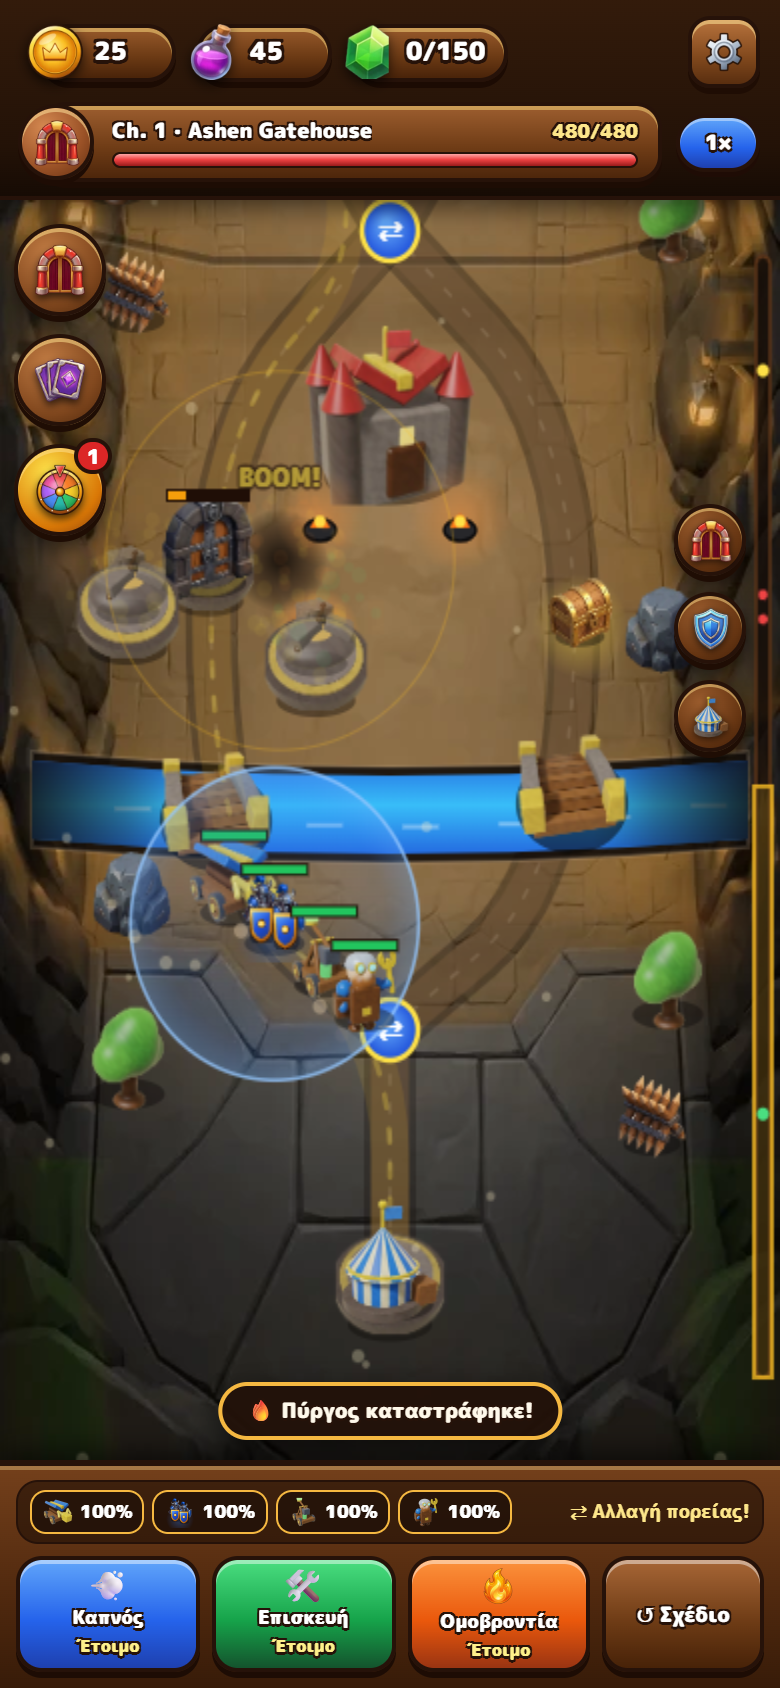
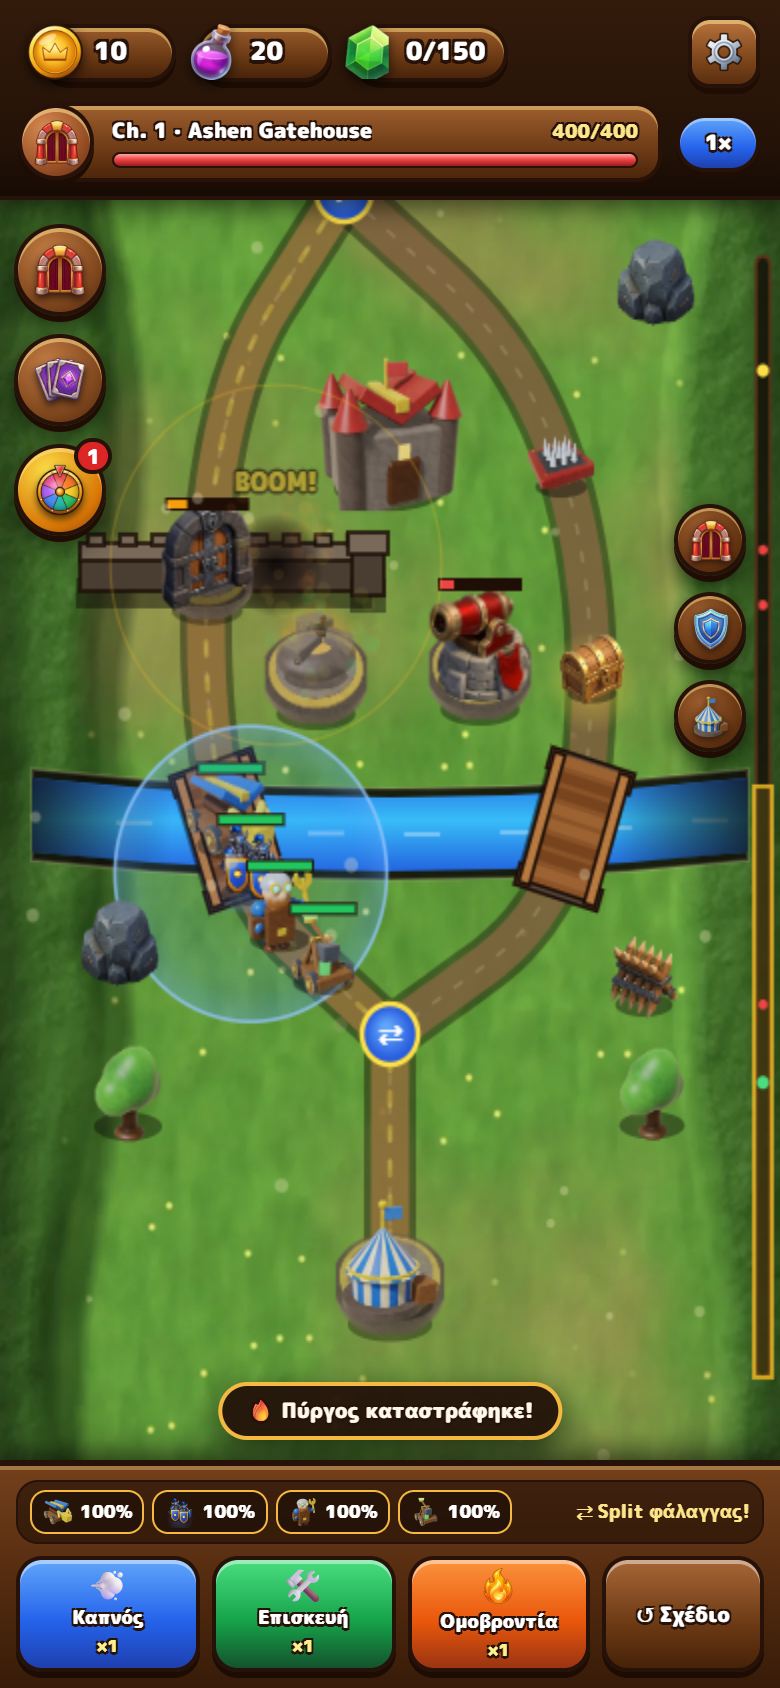
Release v2.0.0: Overhaul Edition version.json, README & screenshots

diff --git a/README.md b/README.md
@@ -22,12 +22,12 @@
     <img src="https://img.shields.io/badge/More_Apps-jemangr.app-f59e0b?style=for-the-badge" alt="jemangr.app" />
   </a>
   <a href="https://github.com/jemangr/reverse-siege-releases/releases">
-    <img src="https://img.shields.io/badge/Releases-v1.2.0-22c55e?style=for-the-badge" alt="GitHub Releases" />
+    <img src="https://img.shields.io/badge/Releases-v2.0.0-22c55e?style=for-the-badge" alt="GitHub Releases" />
   </a>
 </p>
 
 <p align="center">
-  <img src="https://img.shields.io/badge/Version-v1.2.0-brightgreen" alt="Version v1.2.0" />
+  <img src="https://img.shields.io/badge/Version-v2.0.0-brightgreen" alt="Version v2.0.0" />
   <img src="https://img.shields.io/badge/Package-app.jemangr.reversesiege-blue" alt="Package app.jemangr.reversesiege" />
   <img src="https://img.shields.io/badge/Platform-Android%208.0%2B-purple" alt="Android 8.0+" />
   <img src="https://img.shields.io/badge/Languages-EL%20%7C%20EN-gold" alt="Languages EL | EN" />
@@ -46,26 +46,26 @@ Always get the latest official Android APK build from this permanent link:
 
 ---
 
-## ✨ Key Highlights (`v1.2.0 — Sculpted Realms & 50 Chapters`)
+## ✨ Key Highlights (`v2.0.0 — Overhaul Edition`)
 
-- 🏰 **Hand-Painted 3D Sculpted Realms (`390×1100`):** Seamless vertical castle corridors featuring rocky cliff walls with glowing lanterns, **23 3D PBR sprites** (3D stone tower pedestals, guardhouses, arched planked drawbridges, oak & frosted pine trees, burning bronze war-pillars), and organic **curved spline cobblestone paths**.
-- 🌍 **50-Chapter Campaign across 5 Acts (150★):** Progress through **5 distinct realms** (*Ashen Borderlands, Ember Caldera, Verdant Catacombs, Frostfang Pass, Iron King's Domain*) with **5 unique castle layouts**, every 10th chapter as a Boss Citadel (`hpScale 1.00× → 4.09×`, scaled starting Gold `410g → 733g`, Lv. `1–10` Workshop Upgrades, and Act `1..5` campaign filter tabs).
-- 🎯 **Clean HUD & Tactical Clarity:** English chapter names shown consistently across locales, decluttered side medallion icons without overlapping labels, subtle active-threat range rings (tap any tower to inspect), and animated curved moats disappearing beneath cliff overhangs.
-- 💣 **Powder Barrels, Loot Chests & Guard Ambushes:** Detonate **Powder Barrels**, raid flanking **Iron Loot Chests**, clash with **Iron Legion Guards**, and dodge sweeping **Dragon Flame Cones**.
-- 📺 **5-Placement Rewarded & Controlled Interstitial Ads (`window.ReverseAds`):** Native Android ad bridge with Demo fallback (`+100g` in Plan Phase, `2×` Victory Blueprints, Defeat Rescue Boost, scaled Workshop Supply Crate, Fortune Wheel spins, and non-intrusive Interstitial pacing).
-- 🔄 **Automatic 6-Hour Update Checker & 13 `jemangr.app` Portfolio Apps.**
+- 🏰 **5 Bespoke WebGL2 PBR 2.5D Terrains (`780×2200`) & 8 Fortress Topologies (`T1..T8`):** Seamless vertical realms across **5 biomes**, continuous **2.5D Stone Curtain Walls** with masonry bastion piers anchoring every Gate, organic midpoint-quadratic Bezier roads (`sampleSpline`), and **mathematically aligned Bridges** placed at exact `road × moatCenterY` intersections.
+- 🔒 **Locked Progressive 50-Chapter Campaign + Daily Siege:** Chapters `2–50` unlock sequentially as you shatter each predecessor (every 10th chapter is a **Boss Citadel** with Keep Bombard & Royal Sorties), plus a **Daily Siege** seeded procedural fortress mode.
+- 🎯 **Deep Tactical Counters & Mid-Siege Squad Split (`⇄`):** Tight starting budget (`300g–452g`), non-Ram Gate armor (`0.35×`), Flame ignoring Shield domes (`1.35×` damage), Mortar telegraphs, Frost slow aura, Acid anti-heal traps, and rear-junction flipping mid-battle (`⇄`) to split convoys onto flanking lanes.
+- 💥 **Tap-to-Aim Limited Commander Powers:** Deliberate strategic casts (`×1` charge, `×2` at **Tactics Lv.5+**) for **Smoke Veil**, fixed-ratio **Field Repair**, and **Meteor Barrage** — zero infinite heal/barrage spam.
+- 🔧 **6-Upgrade Siege Workshop (`Lv. 1–10`) & Smart Defeat Diagnostics:** Level **Ram**, **Shield**, **Trebuchet**, **Sapper**, **Vault**, and **Tactics**, plus contextual loss hints explaining the exact counter that broke your convoy.
+- 📺 **Store-Ready Ad Bridge (`window.ReverseAds`):** Native Android, iOS WebView, CrazyGames & Poki ad bridge supporting Rewarded Ads (`+100g`, `2×` Victory Blueprints, Extra Wheel Spin, Daily Retry, Mercy Boost) with offline Demo fallback.
 
 ---
 
 ## 📸 Screenshots Gallery
 
-| 1. Ch.1 Ashen Gatehouse, 3D Guardhouse & Spline Paths | 2. Powder Barrel Shockwave, Guards & Aegis Dome | 3. Ch.11 Lava Caldera, Smoke Veil & Meteor Barrage |
+| 1. Ch.1 Ashen Gatehouse, Curtain Walls & Aligned Bridges | 2. Powder Barrel Shockwave, Guards & Mid-Siege Split | 3. Ch.11 Lava Caldera, Tap-to-Aim Smoke & Charges |
 | :---: | :---: | :---: |
-| <img src="screenshots/rs_01_plan_route.png" width="220" alt="Ashen Gatehouse 3D Map and Clean Medallions" /> | <img src="screenshots/rs_02_live_siege.png" width="220" alt="Live Siege Powder Barrel Shockwave" /> | <img src="screenshots/rs_03_flank_smoke.png" width="220" alt="Courtyard of Embers Lava Biome and Smoke Veil" /> |
+| <img src="screenshots/rs_01_plan_route.png" width="220" alt="Ashen Gatehouse 2.5D Map and Curtain Walls" /> | <img src="screenshots/rs_02_live_siege.png" width="220" alt="Live Siege Powder Barrel Shockwave" /> | <img src="screenshots/rs_03_flank_smoke.png" width="220" alt="Magma Gatehouse Lava Biome and Tap-to-Aim Smoke Veil" /> |
 
-| 4. 50-Chapter Campaign (Act Tabs & Bosses) | 5. Siege Workshop Upgrades (Lv. 1–10) | 6. Citadel Shattered & 2× Blueprints Ad |
+| 4. Locked 50-Chapter Campaign & Daily Siege | 5. 6-Card Siege Workshop (Lv. 1–10) | 6. Citadel Shattered & 2× Blueprints Ad |
 | :---: | :---: | :---: |
-| <img src="screenshots/rs_04_story_campaign.png" width="220" alt="50-Chapter Campaign Modal" /> | <img src="screenshots/rs_05_workshop_upgrades.png" width="220" alt="Workshop Lv 10 Upgrades" /> | <img src="screenshots/rs_06_victory_keep.png" width="220" alt="3-Star Victory and Double Blueprints Ad" /> |
+| <img src="screenshots/rs_04_story_campaign.png" width="220" alt="Locked 50-Chapter Campaign and Daily Siege" /> | <img src="screenshots/rs_05_workshop_upgrades.png" width="220" alt="Workshop 6-Card Lv 10 Upgrades" /> | <img src="screenshots/rs_06_victory_keep.png" width="220" alt="3-Star Victory and Double Blueprints Ad" /> |
 
 ---
 
